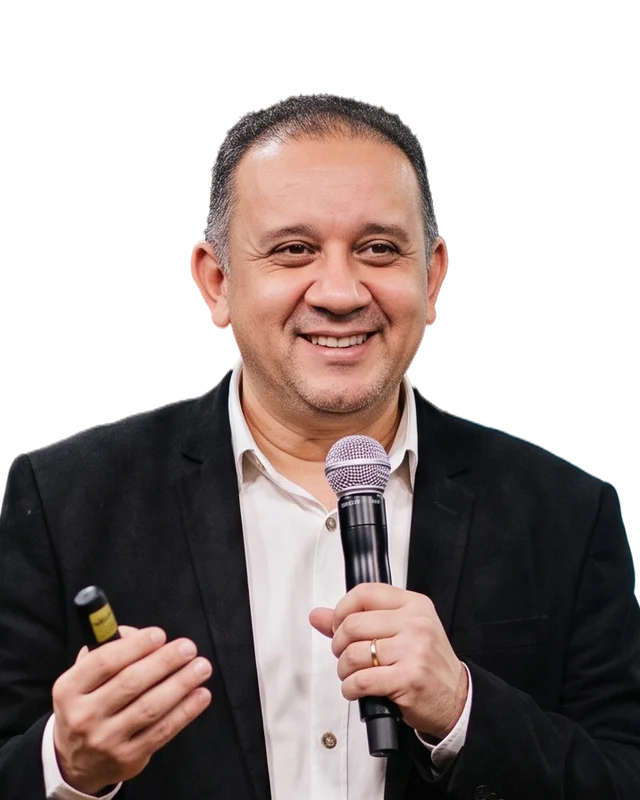
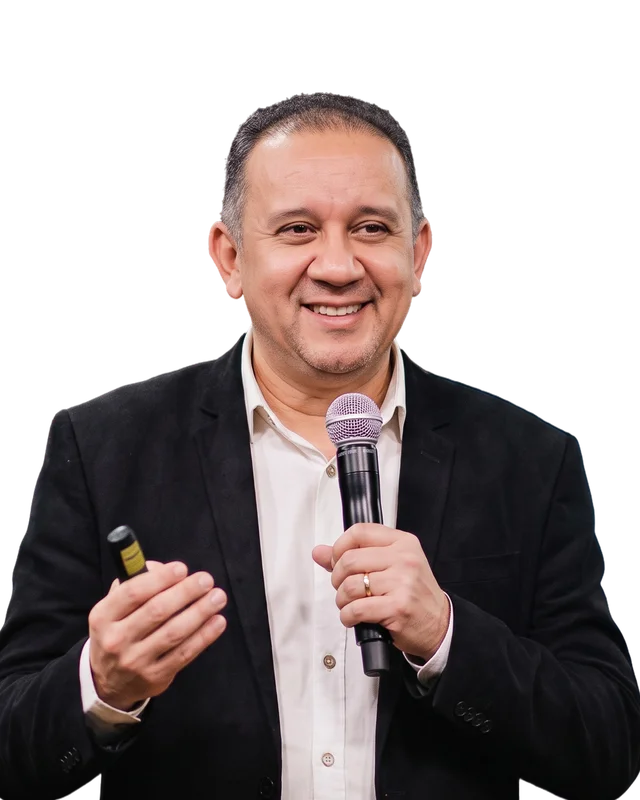
Convenção 2026: nova foto do Eduardo Pereira

diff --git a/public/convencao-2026/index.html b/public/convencao-2026/index.html
@@ -1897,9 +1897,9 @@ var PARTICIPANTES = [
   {nome:'Ingrid Devisate', empresa:'IFB', papel:'VP', foto:'fotos/ingrid.webp'},
   {nome:'Simone Galante', empresa:'Galunion', papel:'CEO', foto:'fotos/simone.webp'},
   {nome:'Netão', empresa:'Bom Beef', papel:'CEO', foto:'fotos/netao.webp'},
+  {papel:'Fornecedor'},
   {nome:'Eduardo Pereira', empresa:'PMG', papel:'Gerente Comercial', foto:'fotos/eduardo.webp'},
-  {nome:'Edilson Neves', empresa:'PMG', papel:'Diretor de Marketing', foto:'fotos/edilson.webp'},
-  {papel:'Fornecedor'}
+  {nome:'Edilson Neves', empresa:'PMG', papel:'Diretor de Marketing', foto:'fotos/edilson.webp?v=2'}
 ];
 var PARCEIROS = [];
 (function(){
